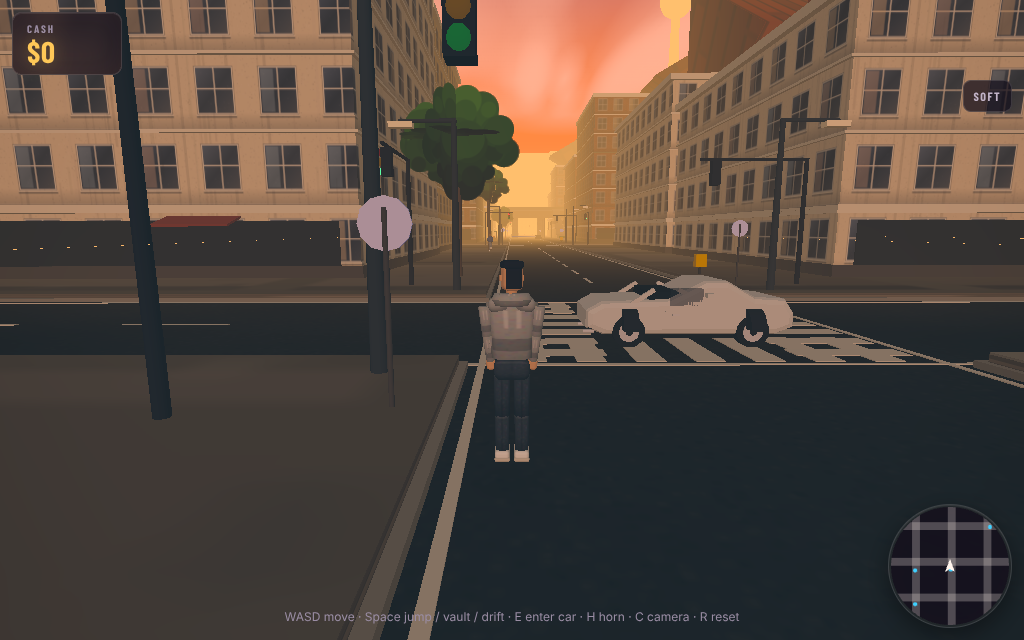
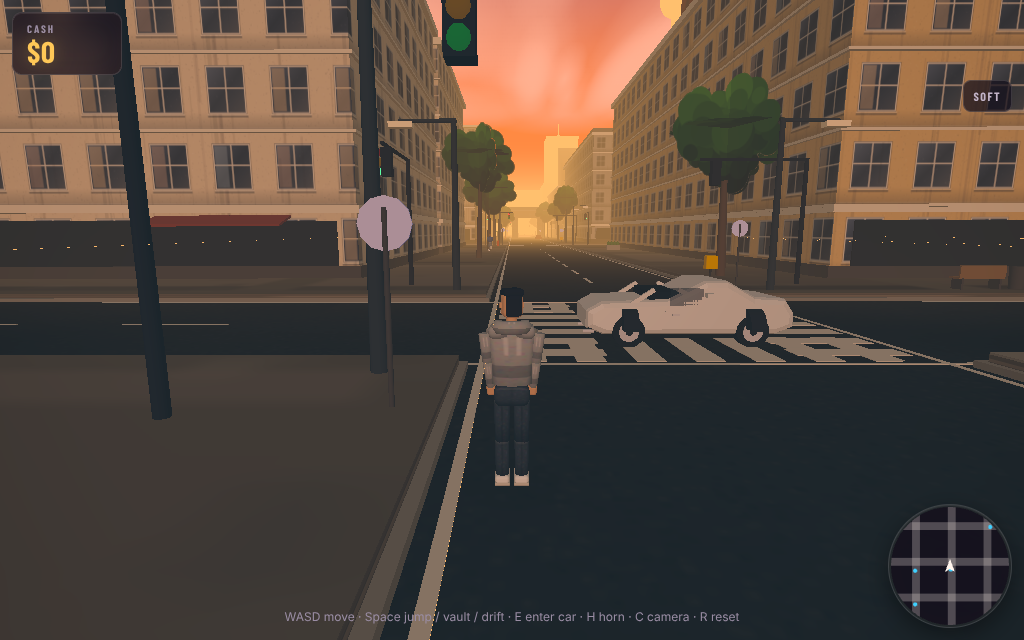
City: delivery cash fix, ground contact, shop signs, Phong paint, crisp filter
Claude-Session: https://claude.ai/code/session_018KZLyQB5QBTByuUpC7x4xA

diff --git a/src/city/world.ts b/src/city/world.ts
@@ -16,6 +16,11 @@ function mergeSafe(geos: THREE.BufferGeometry[]): THREE.BufferGeometry {
 import { Rng } from '../game/rng';
 import { asphaltTexture, cobbleTexture, facadeTexture, foliageTexture, graffitiTexture, roofTexture, trainTexture, type Facade, type FacadeStyle } from './textures';
 import { buildProps, type PropsOut, type Solid3 } from './props';
+import { neonLabelTexture } from './textures';
+
+const SHOP_NAMES = ['BAKERY', 'KIOSK 24', 'LAUNDRY', 'BARBER', 'NOODLE BAR', 'VINYL', 'PHARMACY', 'CAFÉ LUNA', 'TATTOO', 'FISH MARKET', 'BOOKS', 'REPAIRS', 'PIZZA', 'FLOWERS', 'ARCADE'];
+const SIGN_COLORS = [0xc8352a, 0x2a6a9a, 0x2f7a55, 0xe8b530, 0x7a3a8a, 0xd96a2a];
+const POSTER_WORDS = ['LIVE TONIGHT', 'SUNSET RADIO', 'VINYL FAIR', 'OPEN AIR', 'NIGHT MARKET', 'JAZZ CLUB', 'RECORD DAY', 'BOAT TRIP'];
 
 /** City layout constants (metres). */
 export const BLOCK = 64;
@@ -76,7 +81,7 @@ type District = 'oldtown' | 'modern' | 'industrial' | 'residential' | 'plaza';
 
 /** A soft dark disc under characters and cars: the classic blob shadow. */
 export function blobShadow(w: number, d: number, y = 0.02): THREE.Mesh {
-  const m = new THREE.Mesh(new THREE.PlaneGeometry(w, d), new THREE.MeshBasicMaterial({ map: radialSpriteTexture(), color: 0x000000, transparent: true, opacity: 0.45, depthWrite: false }));
+  const m = new THREE.Mesh(new THREE.PlaneGeometry(w, d), new THREE.MeshBasicMaterial({ map: radialSpriteTexture(), color: 0x000000, transparent: true, opacity: 0.4, depthWrite: false }));
   m.rotation.x = -Math.PI / 2;
   m.position.y = y;
   m.renderOrder = 1;
@@ -231,6 +236,7 @@ export function buildWorld(scene: THREE.Scene, seed = 7, quality: 'high' | 'bala
       const sw = new THREE.BoxGeometry(half * 2, 0.3, half * 2);
       sw.translate(cx, 0.15, cz);
       sidewalkGeos.push(sw);
+      platforms.push({ minX: cx - half, maxX: cx + half, minZ: cz - half, maxZ: cz + half, y: 0.3 });
       const kerb = new THREE.BoxGeometry(half * 2 + 0.3, 0.14, half * 2 + 0.3);
       kerb.translate(cx, 0.08, cz);
       kerbGeos.push(kerb);
@@ -359,11 +365,30 @@ export function buildWorld(scene: THREE.Scene, seed = 7, quality: 'high' | 'bala
               }
             }
           }
-          // A doorway on the street side.
+          // A doorway on the street side, a shop sign over it, posters on the wall and a bin by the door.
           const dside = rng.chance(0.5) ? 1 : -1;
+          const doorX = lot.x + (rng.next() - 0.5) * (w - 4);
           const door = new THREE.BoxGeometry(1.6, 2.6, 0.3);
-          door.translate(lot.x + (rng.next() - 0.5) * (w - 4), 1.6, lot.z + dside * (d / 2 + 0.1));
+          door.translate(doorX, 1.6, lot.z + dside * (d / 2 + 0.1));
           darkGeos.push(door);
+          const sign = new THREE.Mesh(new THREE.PlaneGeometry(4.2, 1.1), new THREE.MeshLambertMaterial({ map: neonLabelTexture(rng.pick(SHOP_NAMES), rng.pick(SIGN_COLORS), false) }));
+          sign.position.set(doorX, 3.45, lot.z + dside * (d / 2 + 0.28));
+          sign.rotation.y = dside > 0 ? 0 : Math.PI;
+          group.add(sign);
+          const signBoard = new THREE.BoxGeometry(4.4, 1.3, 0.12);
+          signBoard.translate(doorX, 3.45, lot.z + dside * (d / 2 + 0.2));
+          darkGeos.push(signBoard);
+          for (let k = 0; k < 2; k++) {
+            if (rng.next() < 0.45) continue;
+            const px = lot.x + (rng.next() - 0.5) * (w - 3);
+            const poster = new THREE.Mesh(new THREE.PlaneGeometry(1.2, 0.8), new THREE.MeshLambertMaterial({ map: neonLabelTexture(rng.pick(POSTER_WORDS), rng.pick(SIGN_COLORS), false) }));
+            poster.position.set(px, 1.7 + rng.next() * 0.6, lot.z - dside * (d / 2 + 0.06));
+            poster.rotation.y = dside > 0 ? Math.PI : 0;
+            group.add(poster);
+          }
+          const bin = new THREE.CylinderGeometry(0.28, 0.24, 0.9, 10);
+          bin.translate(doorX + 2.4, 0.75, lot.z + dside * (d / 2 + 1.2));
+          darkGeos.push(bin);
         }
         // Cornice and roof.
         const cornice = new THREE.BoxGeometry(w + 0.8, 0.6, d + 0.8);

diff --git a/src/city/main.ts b/src/city/main.ts
@@ -53,7 +53,8 @@ async function boot(): Promise<void> {
           const tex = (mat as any)[key] as THREE.Texture | null;
           if (tex) {
             tex.magFilter = nearest ? THREE.NearestFilter : THREE.LinearFilter;
-            tex.minFilter = nearest ? THREE.NearestMipmapLinearFilter : THREE.LinearMipmapLinearFilter;
+            tex.minFilter = nearest ? THREE.NearestMipmapNearestFilter : THREE.LinearMipmapLinearFilter;
+            tex.anisotropy = nearest ? 1 : 8;
             tex.needsUpdate = true;
           }
         }
@@ -79,6 +80,7 @@ async function boot(): Promise<void> {
   (window as any).__setFilter = (mode: 'soft' | 'crisp') => {
     localStorage.setItem('neoncity.filter', mode);
     applyFilter(mode === 'crisp');
+    hud.toast(mode === 'crisp' ? 'Crisp textures (nearest filtering)' : 'Soft textures (linear filtering)', 'info');
   };
 
   // Street lamp pool: real point lights follow the nearest lamps.
@@ -105,6 +107,7 @@ async function boot(): Promise<void> {
   for (let i = 0; i < 3; i++) {
     const bk = new Car(0xd9d9d9, false, false, 'bike');
     bk.place(-CELL * 0.5 - 6 - i * 1.2, spawnZ + 12, Math.PI / 2);
+    bk.baseY = 0.3;
     scene.add(bk.mesh);
     bikes.push(bk);
   }
@@ -147,6 +150,8 @@ async function boot(): Promise<void> {
     if (e.type === 'complete') {
       audio.chime('cash');
       hud.flash();
+      hud.setCash(missions.cash);
+      hud.toast(`+$${e.amount ?? 0} paid`, 'good');
     }
     if (e.type === 'checkpoint') audio.chime('checkpoint');
     if (e.type === 'fail') audio.chime('fail');
@@ -275,7 +280,9 @@ async function boot(): Promise<void> {
       player.update(dt, inp.x, inp.y, inp.run, camYaw, world.solids, allCars, t, world);
       const chase = wanted > 0 ? (player.inCar ? pc.pos : player.pos) : null;
       traffic.update(dt, player.inCar ? pc : null, allCars, world.solids, t, chase);
-      npcs.update(dt, t, allCars, player.inCar ? pc.pos : player.pos, inp.horn && !!player.inCar, world.obstacles);
+      npcs.update(dt, t, allCars, player.inCar ? pc.pos : player.pos, inp.horn && !!player.inCar, world.obstacles, world.heightAt);
+      // Vehicles ride up onto sidewalks instead of sinking into them.
+      for (const c of allCars) c.baseY += (world.heightAt(c.pos.x, c.pos.z, 0.3) - c.baseY) * Math.min(1, dt * 8);
       missions.update(dt, player.inCar ? pc.pos : player.pos, t, !!player.inCar);
       // Wanted level: hitting pedestrians or ramming traffic raises it; it cools off when you behave.
       if (npcs.hits > lastHits) {

diff --git a/src/city/missions.ts b/src/city/missions.ts
@@ -1,6 +1,6 @@
 import * as THREE from 'three';
 import { Rng } from '../game/rng';
-import { CELL, CITY_HALF, GRID, ROAD, SIDEWALK, radialSpriteTexture } from './world';
+import { CELL, CITY_HALF, GRID, ROAD, radialSpriteTexture } from './world';
 
 export interface Mission {
   kind: 'delivery' | 'race' | 'taxi';
@@ -51,7 +51,7 @@ export class Missions {
       const cx = -CITY_HALF + bx * CELL + CELL / 2;
       const cz = -CITY_HALF + bz * CELL + CELL / 2;
       const side = this.rng.int(0, 3);
-      const off = CELL / 2 - SIDEWALK - ROAD / 2 + 3; // on the road edge next to the sidewalk
+      const off = CELL / 2 - ROAD / 2 + 2.2; // in the kerb lane of the road, just past the sidewalk
       const p = side === 0 ? new THREE.Vector3(cx + off, 0, cz + this.rng.range(-20, 20)) : side === 1 ? new THREE.Vector3(cx - off, 0, cz + this.rng.range(-20, 20)) : side === 2 ? new THREE.Vector3(cx + this.rng.range(-20, 20), 0, cz + off) : new THREE.Vector3(cx + this.rng.range(-20, 20), 0, cz - off);
       if (p.distanceTo(from) > minDist) return p;
     }
@@ -109,7 +109,7 @@ export class Missions {
     const m = this.current;
     m.timeLeft -= dt;
     const target = m.targets[m.idx];
-    if (playerPos.distanceTo(target) < 4.5) {
+    if (Math.hypot(playerPos.x - target.x, playerPos.z - target.z) < 6.5) {
       m.idx++;
       if (m.idx >= m.targets.length) {
         const bonus = Math.round(m.reward * Math.max(0, m.timeLeft / m.total) * 0.5);

diff --git a/src/city/npc.ts b/src/city/npc.ts
@@ -85,14 +85,14 @@ export class Npcs {
     this.list.push(n);
   }
 
-  update(dt: number, t: number, cars: Car[], playerPos: THREE.Vector3, horn: boolean, solids: Solid3[]): void {
+  update(dt: number, t: number, cars: Car[], playerPos: THREE.Vector3, horn: boolean, solids: Solid3[], heightAt: (x: number, z: number, nearY: number) => number): void {
     for (const n of this.list) {
       const r = n.rig;
       if (n.mode === 'hit') {
         n.hit += dt;
         n.pos.addScaledVector(n.vel, dt);
         n.vel.multiplyScalar(Math.pow(0.05, dt));
-        n.mesh.position.set(n.pos.x, Math.max(0.3, 0.3 + Math.sin(Math.min(Math.PI, n.hit * 3)) * 1.2), n.pos.z);
+        n.mesh.position.set(n.pos.x, Math.max(0.03, 0.03 + Math.sin(Math.min(Math.PI, n.hit * 3)) * 1.2), n.pos.z);
         n.mesh.rotation.x = Math.min(Math.PI / 2, n.hit * 4);
         if (n.hit > 7) {
           n.hit = 0;
@@ -233,7 +233,7 @@ export class Npcs {
         r.armR.rotation.x = -1.4 - Math.sin(t * 14 + n.phase) * 0.6;
         r.head.rotation.y = Math.sin(t * 4) * 0.4;
       }
-      n.mesh.position.set(n.pos.x, 0.3, n.pos.z);
+      n.mesh.position.set(n.pos.x, heightAt(n.pos.x, n.pos.z, 0.3) + 0.03, n.pos.z);
       n.mesh.rotation.y = n.heading;
     }
   }

diff --git a/src/city/vehicle.ts b/src/city/vehicle.ts
@@ -36,6 +36,8 @@ export class Car {
   color: number;
   kind: CarKind;
   lastHit = 0;
+  /** Ground height under the vehicle (0.3 when parked on a sidewalk). */
+  baseY = 0;
   private roll = 0;
   private pitch = 0;
   private glows: THREE.Sprite[] = [];
@@ -49,7 +51,7 @@ export class Car {
   constructor(color: number, withShadowLights = false, realLights = true, kind: CarKind = 'sedan') {
     this.color = color;
     this.kind = kind;
-    const paint = new THREE.MeshLambertMaterial({ color });
+    const paint = new THREE.MeshPhongMaterial({ color, specular: 0x555555, shininess: 28 });
     const dark = new THREE.MeshLambertMaterial({ color: 0x1a1a1e});
     const glass = new THREE.MeshLambertMaterial({ color: 0x1a2430, transparent: true, opacity: 0.72 });
     const chrome = new THREE.MeshLambertMaterial({ color: 0xd8d8e0});
@@ -498,6 +500,7 @@ export class Car {
     this.pitch += (targetPitch - this.pitch) * Math.min(1, dt * 6);
     this.bump *= Math.pow(0.02, dt);
     this.mesh.position.copy(this.pos);
+    this.mesh.position.y = this.baseY;
     this.mesh.rotation.y = this.heading;
     this.body.rotation.z = this.roll + Math.sin(performance.now() * 0.05) * this.bump * 0.05;
     this.body.rotation.x = this.pitch;

diff --git a/src/city/player.ts b/src/city/player.ts
@@ -77,7 +77,7 @@ export class Player {
         this.action = 'none';
         this.vy = 0;
       }
-      this.mesh.position.set(this.pos.x, this.pos.y + 0.3, this.pos.z);
+      this.mesh.position.set(this.pos.x, this.pos.y + 0.03, this.pos.z);
       this.mesh.rotation.y = this.heading;
       return;
     }
@@ -138,7 +138,7 @@ export class Player {
     }
     this.wantJump = false;
     if (this.action !== 'none') {
-      this.mesh.position.set(this.pos.x, this.pos.y + 0.3, this.pos.z);
+      this.mesh.position.set(this.pos.x, this.pos.y + 0.03, this.pos.z);
       return;
     }
     if (this.airborne) this.fallFrom = Math.max(this.fallFrom, this.pos.y);
@@ -249,7 +249,7 @@ export class Player {
       this.rig.head.rotation.x = -0.25;
     }
     this.mesh.position.copy(this.pos);
-    this.mesh.position.y = this.pos.y + 0.3;
+    this.mesh.position.y = this.pos.y + 0.03;
     this.mesh.rotation.y = this.heading;
   }
 

diff --git a/src/city/human.ts b/src/city/human.ts
@@ -169,9 +169,9 @@ export function buildHuman(o: Outfit, variant = 0): HumanRig {
   const shoeM = new THREE.MeshLambertMaterial({ color: o.shoes });
   const soleM = new THREE.MeshLambertMaterial({ color: 0xd8d2c8 });
   const group = new THREE.Group();
-  const blob = new THREE.Mesh(new THREE.PlaneGeometry(0.9, 0.9), new THREE.MeshBasicMaterial({ map: blobTexture(), color: 0x000000, transparent: true, opacity: 0.4, depthWrite: false }));
+  const blob = new THREE.Mesh(new THREE.PlaneGeometry(1.3, 1.3), new THREE.MeshBasicMaterial({ map: blobTexture(), color: 0x000000, transparent: true, opacity: 0.38, depthWrite: false }));
   blob.rotation.x = -Math.PI / 2;
-  blob.position.y = -0.28;
+  blob.position.y = -0.01;
   blob.renderOrder = 1;
   group.add(blob);
   const mesh = (g: THREE.BufferGeometry, m: THREE.Material | THREE.Material[], y: number, x = 0, z = 0) => {

diff --git a/CHANGELOG.md b/CHANGELOG.md
@@ -1,5 +1,14 @@
 # Changelog
 
+## 1.5.1 — NEON CITY: delivery cash, ground contact, signs and filtering
+
+- Delivery/taxi/race targets sat inside building footprints, so the car could never reach them: targets now sit in the kerb lane, the completion radius is 6.5 m, and a "+$ paid" toast confirms the CASH HUD update.
+- Sidewalks are walkable platforms (0.3 m): people stand on them properly, feet touch the road elsewhere, bikes and cars ride up onto sidewalks instead of sinking.
+- Blob shadows sit at ground level and are larger/softer.
+- Car paint is diffuse + simple specular (Phong, no PBR).
+- Shop signs over every old-town/residential doorway, wall posters, bins by the doors.
+- SOFT / CRISP texture filtering toggle fixed (nearest mag + nearest-mipmap-nearest min, anisotropy off) with a confirmation toast.
+
 ## 1.5.0 — NEON CITY: models matched to the reference
 
 - Cars: one smooth low-poly shell per vehicle extruded from a side-profile silhouette with a bevel (nose, raked windscreen, roof, rear glass, tail), inset dark glass with a cabin interior volume, paint pillars, half-cylinder wheel arches, door seams, spoked rims.
